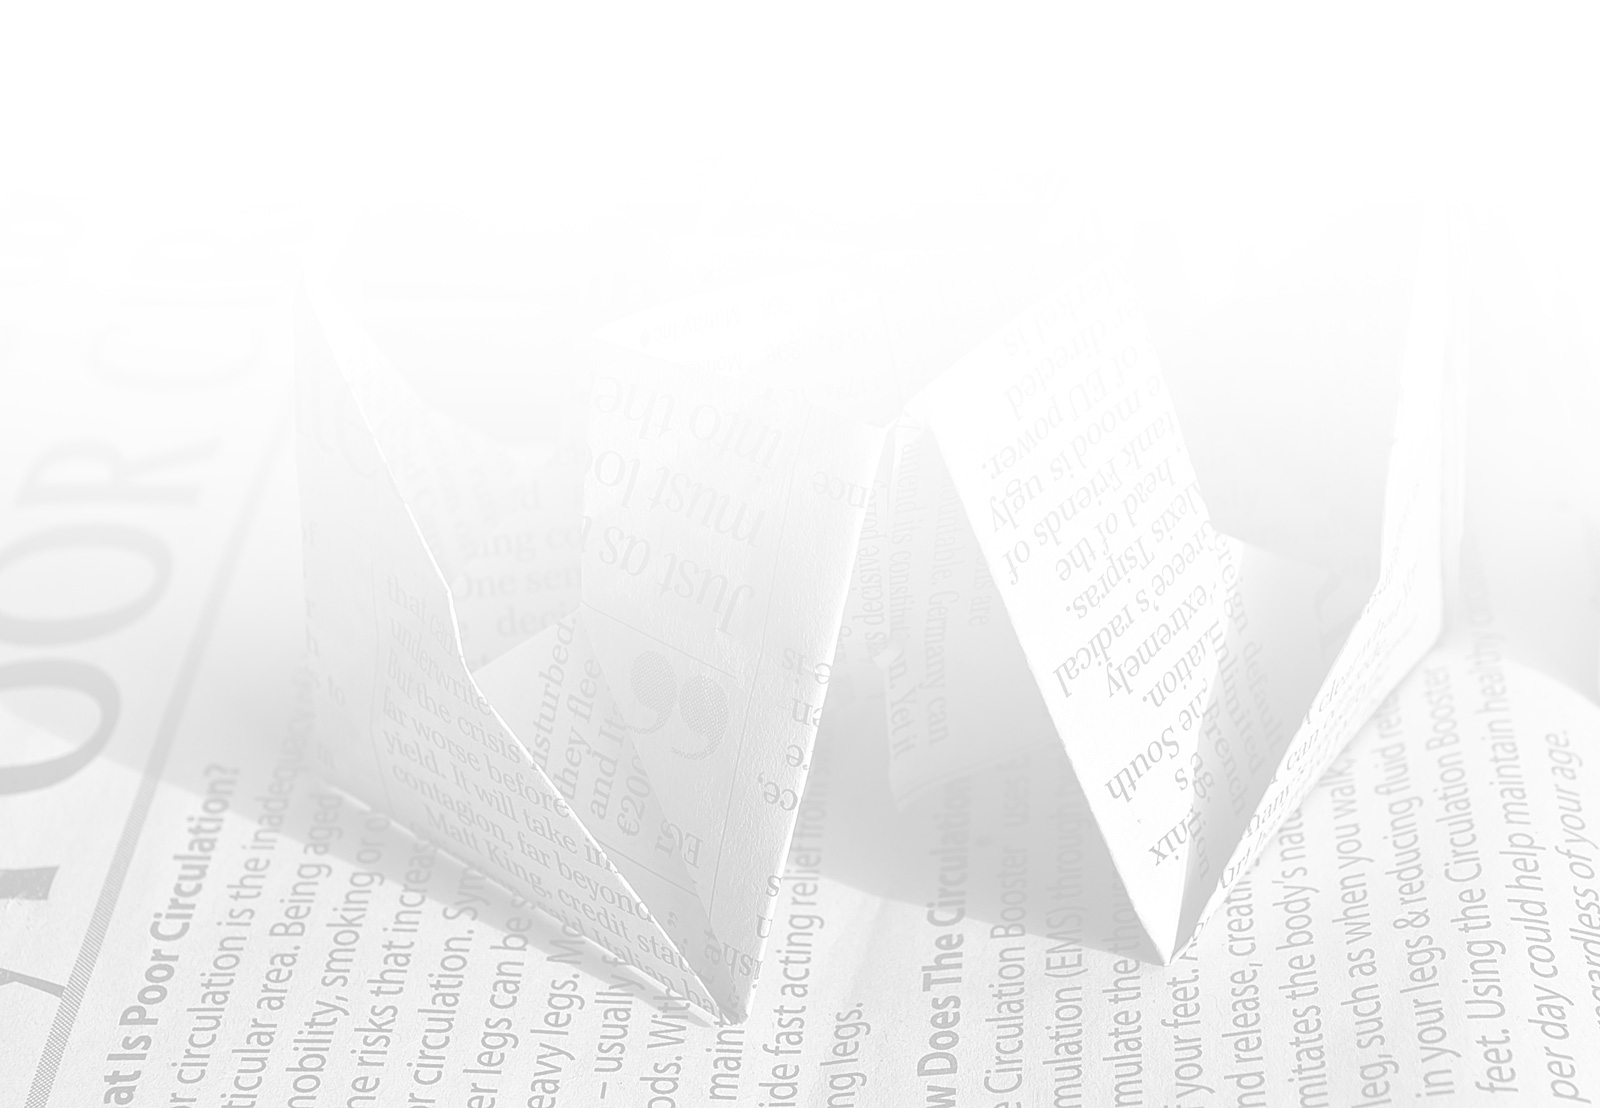
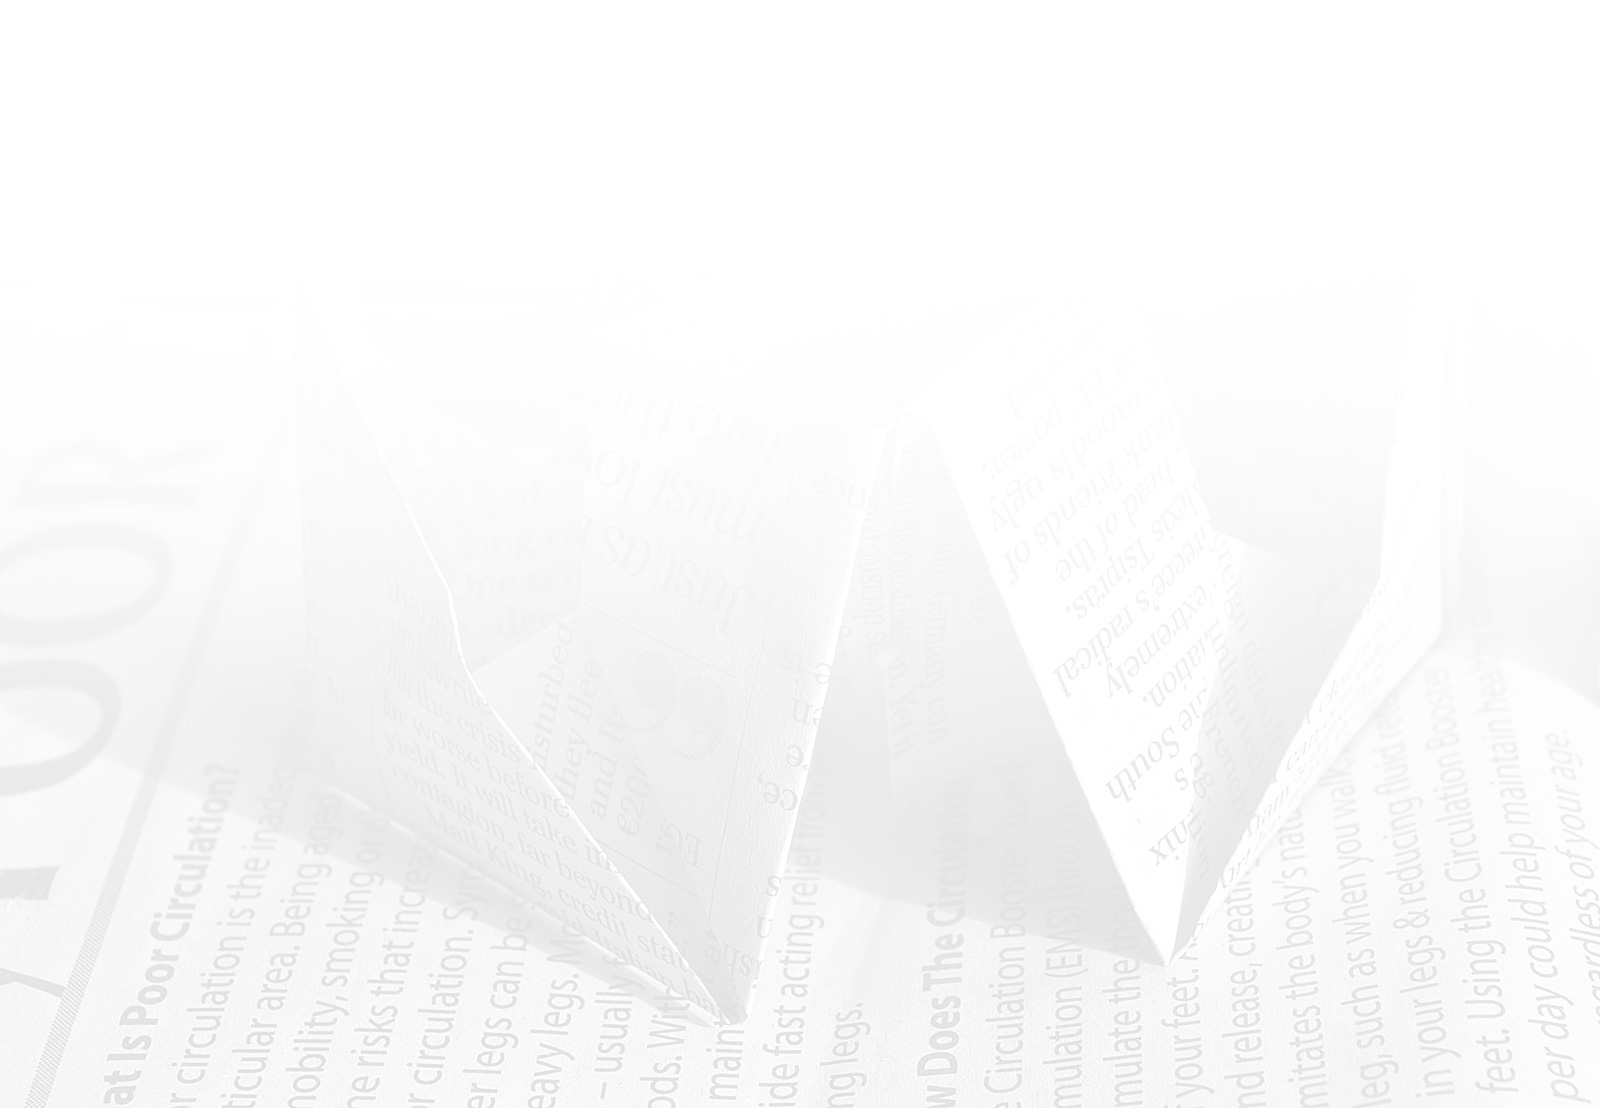
updates

diff --git a/sites/all/themes/codesign/less/codesign.less b/sites/all/themes/codesign/less/codesign.less
@@ -474,7 +474,7 @@ input.form-text { background: #f0f0f0; border: 1px solid @ltgrey; .size(14px); .
 		a { .btn; }
 	}
 }
-.all-past-blogs { background: transparent url(../images/bg-newspaper.jpg) no-repeat center center; background-size: cover; background-attachment: fixed; .p(80px 0 100px); .mb(0px); 
+.all-past-blogs { background: transparent url(../images/bg-newspaper.jpg) no-repeat center center; background-size: 100% auto; background-attachment: fixed; .p(80px 0 100px); .mb(0px); 
 	h2.block-title { .tc; .white; .med; .upper; .ls(4px); .raleway-med; .normal; .mb(30px); }
 	.view-content { .w(960px); .h(400px); .auto;
 		.views-row { .w(304px); .h(400px); background: #fff; .tl; .fl; .m(0 8px);

diff --git a/sites/all/themes/codesign/css/codesign.css b/sites/all/themes/codesign/css/codesign.css
@@ -1998,7 +1998,7 @@ input.form-text {
 }
 .all-past-blogs {
   background: transparent url(../images/bg-newspaper.jpg) no-repeat center center;
-  background-size: cover;
+  background-size: 100% auto;
   background-attachment: fixed;
   padding: 80px 0 100px;
   margin-bottom: 0px;
